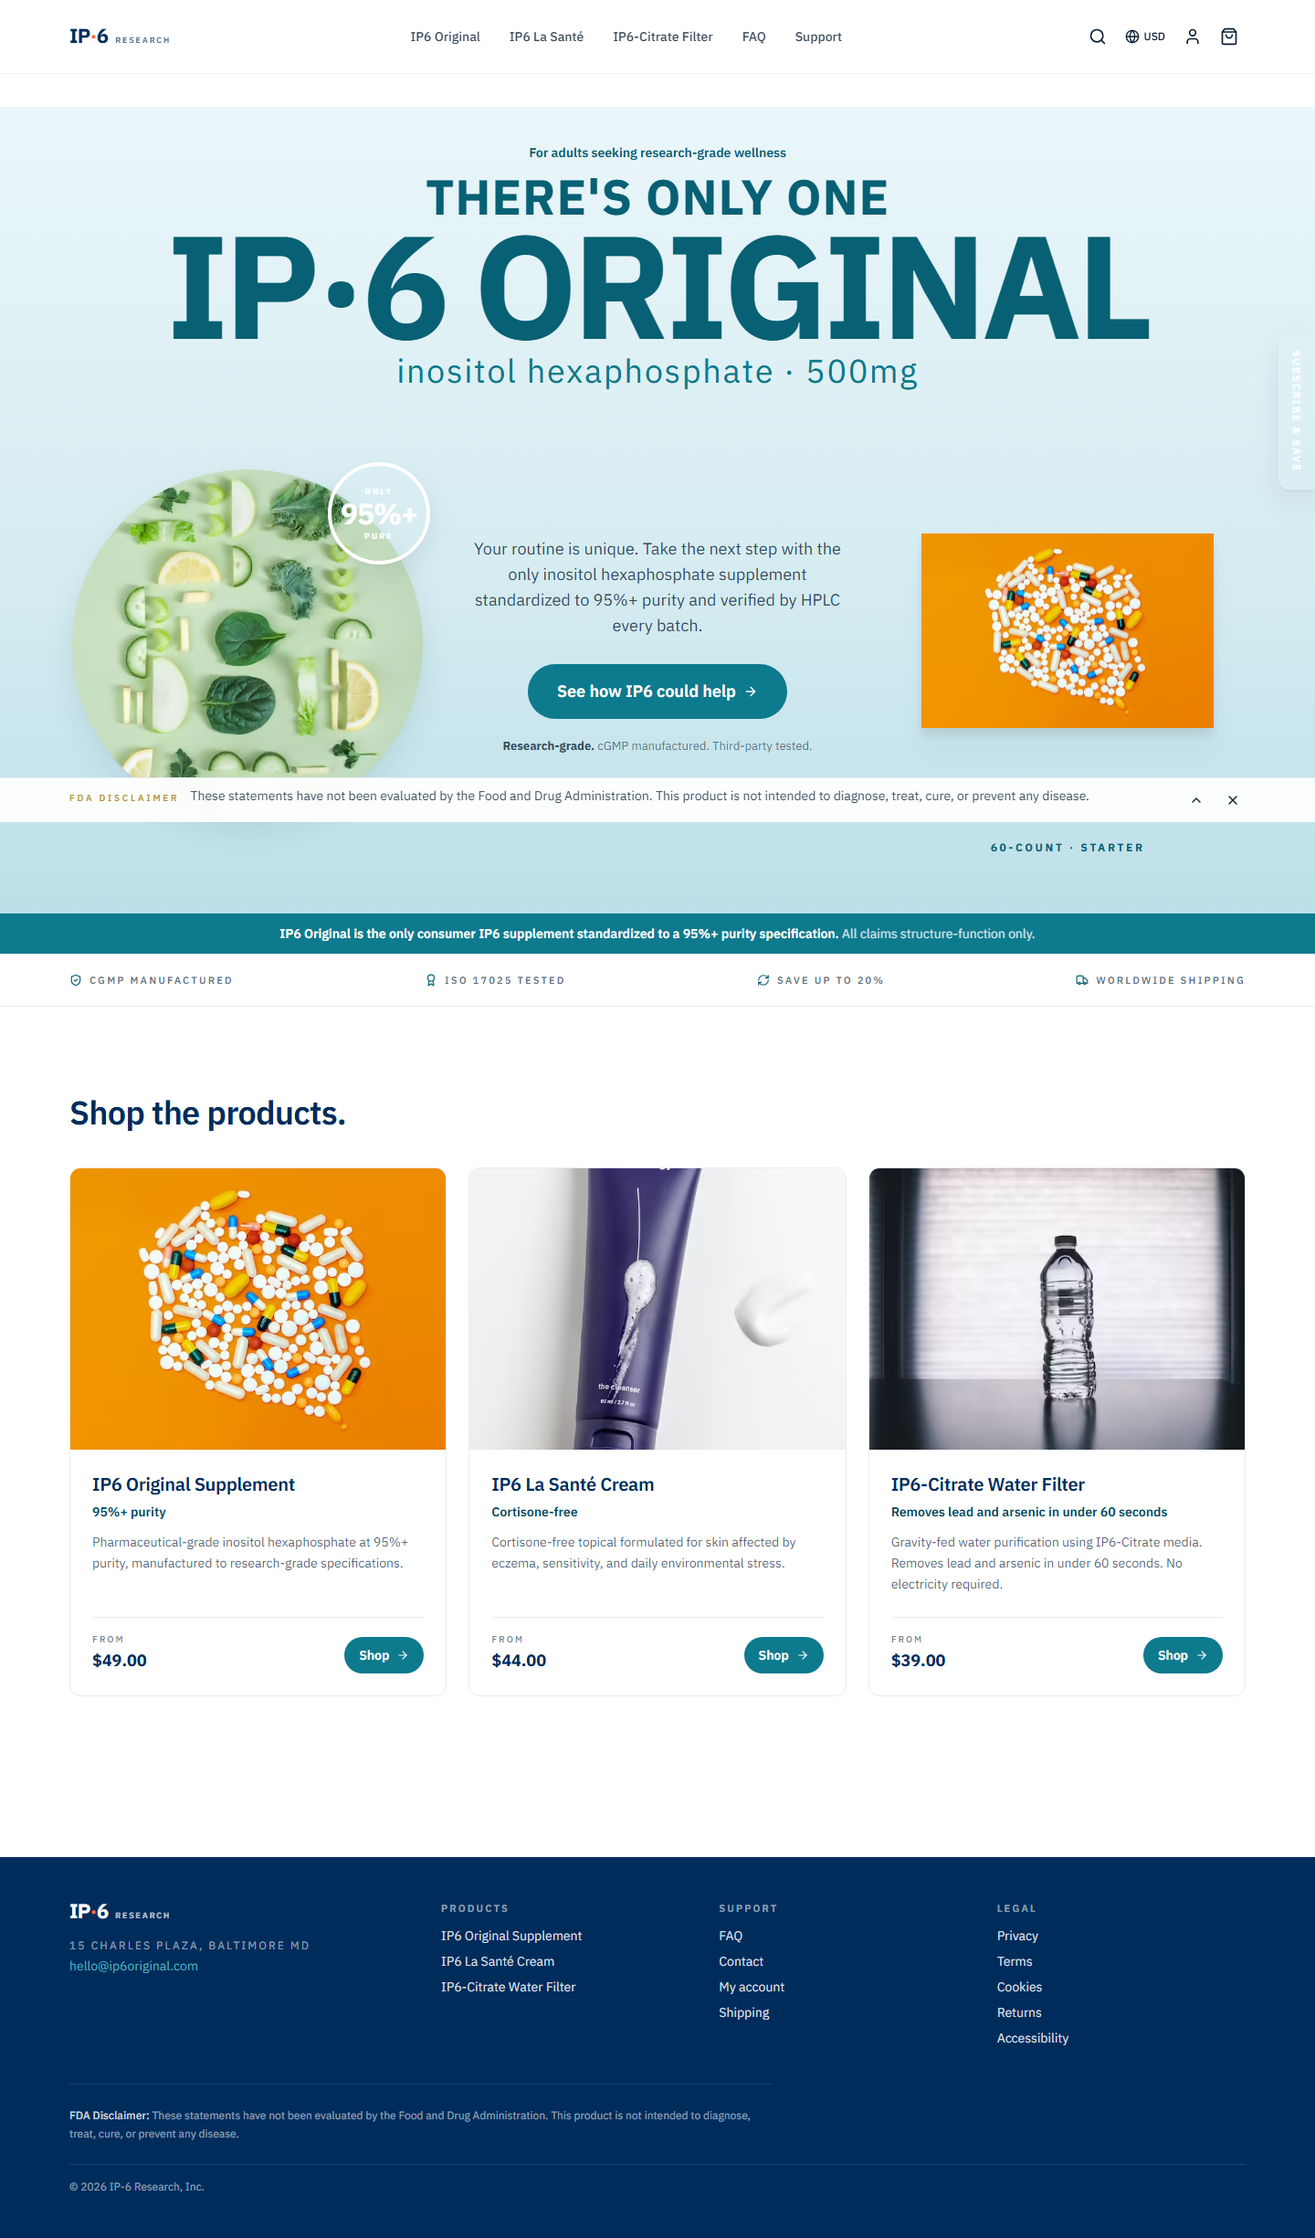
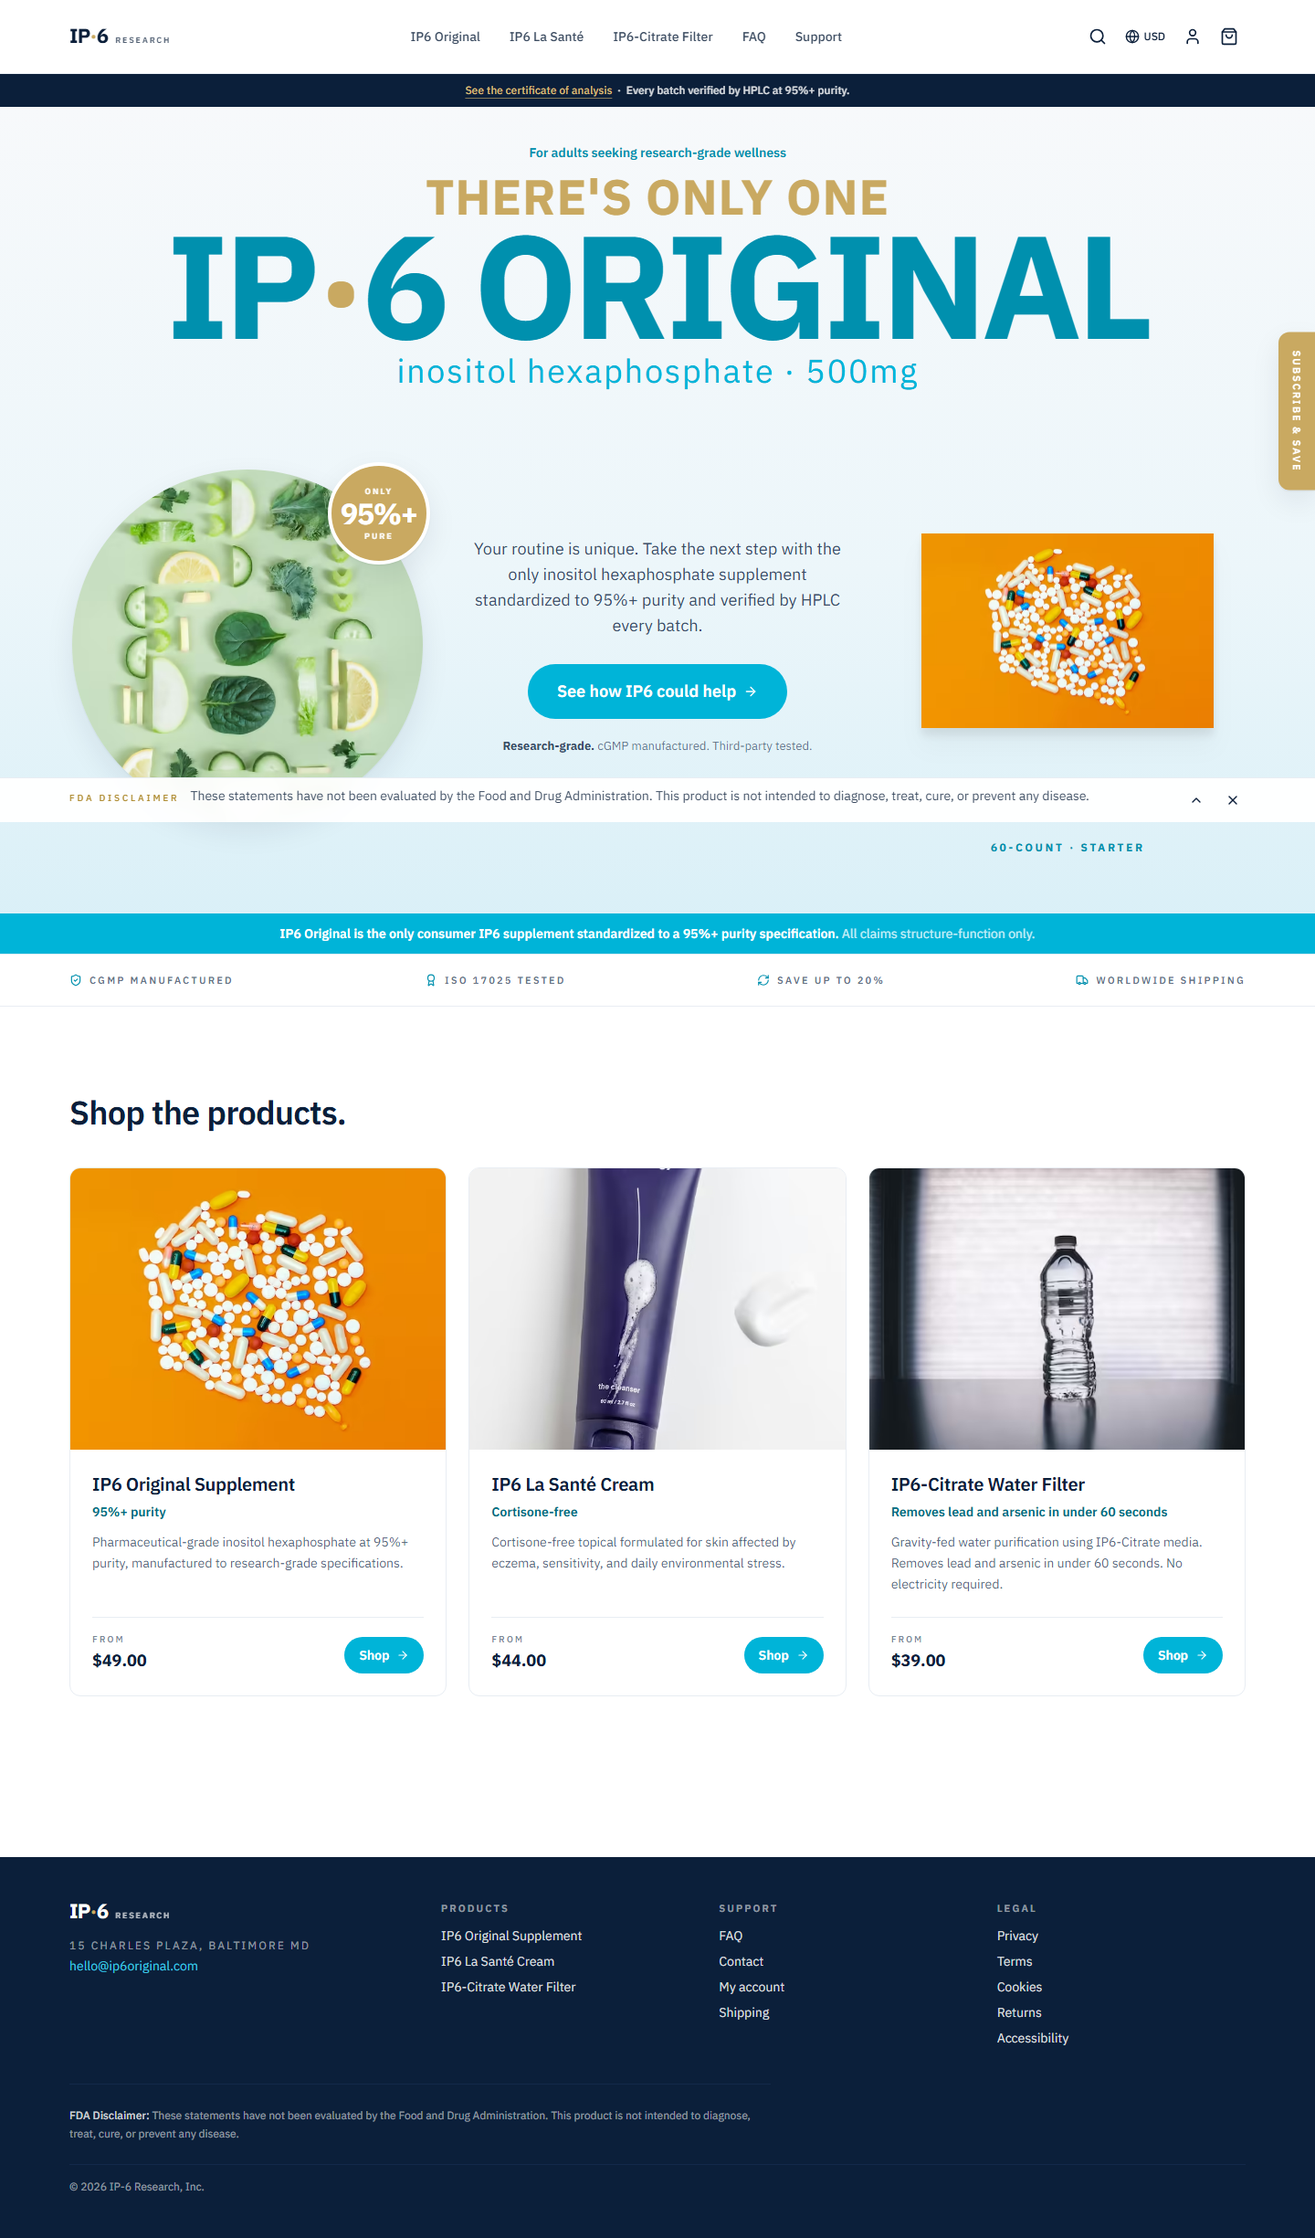
Brand palette + real supplement bottle + founder portrait fix
Palette switched site-wide to the brand colors:
  Deep Navy        #0B1F3A   (navy.800, ink, primary copy)
  Gold             #C9A961   (gold/coral/brandRed aliases — accents)
  Scientific Cyan  #00B4D8   (sky/teal — CTA, hero accents)
  Soft White       #F7F9FB   (cloud — backgrounds)

  - tailwind.config.ts: navy/gold/sky/teal/cloud all retuned;
    forest/coral/brandRed legacy tokens aliased to the new palette
    so existing className references keep working.
  - app/globals.css: bg-atmosphere gradient hex values updated to
    soft-white → cyan tint; buttons now teal (cyan) primary, with
    the legacy gold/coral className still resolving via alias.
  - app/layout.tsx: viewport themeColor set to deep navy.
  - app/checkout/CheckoutFlow.tsx: Stripe Elements appearance
    colors retuned (was forest green); fontFamily switched to
    IBM Plex Sans to match the rest of the site.
  - app/page.tsx: announcement strip background swapped to navy
    with gold link; hero gradient updated to soft-white/cyan tint;
    inline brandRed/coral styles already alias-resolved.
  - lib/aws/ses.ts: email templates re-skinned (navy text, gold
    accent rule, soft-white background).

Real product photo on the supplement page
  - public/products/supplement-real.png: client-supplied bottle
    photograph (652×1356, navy + gold label, "IP6 ORIGINAL · Pioneer
    in IP6 Research and Cellular Health · Dr. Shamsuddin").
  - content/products.ts: HERO_SUPPLEMENT now points to that local
[…]

diff --git a/tailwind.config.ts b/tailwind.config.ts
@@ -14,109 +14,111 @@ const config: Config = {
     },
     extend: {
       colors: {
-        // Clinical pharmaceutical palette
+        // Brand palette: Deep Navy / Gold / Scientific Cyan / Soft White
         navy: {
-          DEFAULT: "#002C5C",
-          50: "#EBF1F8",
-          100: "#D2DEEC",
-          200: "#A6BDD9",
-          300: "#7A9CC6",
-          400: "#4D7BB3",
-          500: "#1F5B9F",
-          600: "#0E4682",
-          700: "#063968",
-          800: "#002C5C",
-          900: "#001E40",
+          DEFAULT: "#0B1F3A",
+          50: "#EAEEF4",
+          100: "#CCD3DF",
+          200: "#9AA8BF",
+          300: "#677D9F",
+          400: "#3A547F",
+          500: "#1B375F",
+          600: "#13294A",
+          700: "#0E2440",
+          800: "#0B1F3A",
+          900: "#06122A",
+        },
+        gold: {
+          DEFAULT: "#C9A961",
+          50: "#FAF6EC",
+          100: "#F2E9CD",
+          200: "#E5D29C",
+          300: "#D9BD79",
+          400: "#D1B26C",
+          500: "#C9A961",
+          600: "#A98B43",
+          700: "#7C642F",
         },
         sky: {
-          DEFAULT: "#0E7A8E",
-          50: "#E6F4F7",
-          100: "#C4E5EB",
-          200: "#8ACAD5",
-          300: "#52B0BF",
-          400: "#2A95A7",
-          500: "#0E7A8E",
-          600: "#086074",
-          700: "#054A5C",
+          DEFAULT: "#00B4D8",
+          50: "#E5F8FC",
+          100: "#BFEDF6",
+          200: "#80D9EC",
+          300: "#40C7E2",
+          400: "#1ABCDB",
+          500: "#00B4D8",
+          600: "#0090AE",
+          700: "#006C82",
         },
         teal: {
-          DEFAULT: "#006072",
-          50: "#E6F2F4",
-          100: "#C4E0E5",
-          200: "#8AC2CB",
-          300: "#4FA3B0",
-          400: "#1A8699",
-          500: "#006072",
-          600: "#004D5C",
-          700: "#003A47",
+          DEFAULT: "#00B4D8",
+          50: "#E5F8FC",
+          100: "#BFEDF6",
+          200: "#80D9EC",
+          300: "#40C7E2",
+          400: "#1ABCDB",
+          500: "#00B4D8",
+          600: "#0090AE",
+          700: "#006C82",
         },
         brandRed: {
-          DEFAULT: "#DA0812",
-          50: "#FDECED",
-          100: "#F9CFD1",
-          200: "#F19DA1",
-          300: "#E86B72",
-          400: "#DF3942",
-          500: "#DA0812",
-          600: "#B0070E",
-          700: "#85050B",
+          // brand red role retired — alias to gold so existing className references
+          // map cleanly into the brand palette without needing component edits.
+          DEFAULT: "#C9A961",
+          50: "#FAF6EC",
+          100: "#F2E9CD",
+          200: "#E5D29C",
+          300: "#D9BD79",
+          400: "#D1B26C",
+          500: "#C9A961",
+          600: "#A98B43",
+          700: "#7C642F",
         },
         heroSky: {
-          from: "#EAF6FA",
-          mid: "#D5ECF1",
-          to: "#B9DEE7",
+          from: "#F7F9FB",
+          mid: "#E5F8FC",
+          to: "#BFEDF6",
         },
         coral: {
-          DEFAULT: "#FF6B47",
-          50: "#FFF1ED",
-          100: "#FFE0D6",
-          200: "#FFC0AC",
-          300: "#FFA083",
-          400: "#FF8059",
-          500: "#FF6B47",
-          600: "#E0552F",
-          700: "#B73F1F",
+          // alias to gold for legacy class refs
+          DEFAULT: "#C9A961",
+          50: "#FAF6EC",
+          100: "#F2E9CD",
+          200: "#E5D29C",
+          300: "#D9BD79",
+          400: "#D1B26C",
+          500: "#C9A961",
+          600: "#A98B43",
+          700: "#7C642F",
         },
-        ink: "#0A1F33",
+        ink: "#0B1F3A",
         surface: "#FFFFFF",
         cloud: {
-          DEFAULT: "#F5F7FA",
-          100: "#FBFCFD",
-          200: "#F5F7FA",
+          DEFAULT: "#F7F9FB",
+          100: "#FFFFFF",
+          200: "#F7F9FB",
           300: "#E8EDF3",
           400: "#D7DFE8",
         },
         danger: "#C0392B",
-        // Legacy aliases mapped to new palette so older components keep working
-        // until they're migrated.
+        // Legacy aliases mapped to current brand palette.
         forest: {
-          DEFAULT: "#002C5C",
-          50: "#EBF1F8",
-          100: "#D2DEEC",
-          200: "#A6BDD9",
-          300: "#7A9CC6",
-          400: "#4D7BB3",
-          500: "#1F5B9F",
-          600: "#0E4682",
-          700: "#063968",
-          800: "#002C5C",
-          900: "#001E40",
-        },
-        gold: {
-          DEFAULT: "#FF6B47",
-          50: "#FFF1ED",
-          100: "#FFE0D6",
-          200: "#FFC0AC",
-          300: "#FFA083",
-          400: "#FF8059",
-          500: "#FF6B47",
-          600: "#E0552F",
-          700: "#B73F1F",
+          DEFAULT: "#0B1F3A",
+          50: "#EAEEF4",
+          100: "#CCD3DF",
+          200: "#9AA8BF",
+          300: "#677D9F",
+          400: "#3A547F",
+          500: "#1B375F",
+          600: "#13294A",
+          700: "#0E2440",
+          800: "#0B1F3A",
+          900: "#06122A",
         },
         ivory: {
-          DEFAULT: "#F5F7FA",
-          100: "#FBFCFD",
-          200: "#F5F7FA",
+          DEFAULT: "#F7F9FB",
+          100: "#FFFFFF",
+          200: "#F7F9FB",
           300: "#E8EDF3",
         },
       },

diff --git a/components/product/ProductGallery.tsx b/components/product/ProductGallery.tsx
@@ -17,33 +17,55 @@ export function ProductGallery({ images }: { images: GalleryImage[] }) {
   const img = images[active];
   if (!img) return null;
 
+  // Container aspect ratio follows the active image so portrait bottles
+  // and landscape lifestyle shots both fit correctly. Portrait images
+  // get displayed with object-contain on a soft-white ground; landscape
+  // images can fill with object-cover.
+  const ratio = img.width / img.height;
+  const isPortrait = ratio < 1;
+  const containerAspect = isPortrait ? "aspect-[3/4]" : "aspect-[4/3]";
+
   return (
-    <div className="grid gap-4 lg:grid-cols-[72px_1fr] lg:gap-6">
+    <div className="grid gap-4 lg:grid-cols-[80px_1fr] lg:gap-6">
       <ol
         aria-label="Product image thumbnails"
         className="order-2 lg:order-1 flex lg:flex-col gap-2 overflow-x-auto lg:overflow-visible scrollbar-none"
       >
-        {images.map((im, i) => (
-          <li key={im.url + i}>
-            <button
-              onClick={() => setActive(i)}
-              aria-label={`Show image ${i + 1}`}
-              aria-current={i === active}
-              className={cn(
-                "relative block size-16 lg:size-[72px] rounded-md overflow-hidden border-2 transition-colors",
-                i === active ? "border-forest-700" : "border-transparent hover:border-ivory-300",
-              )}
-            >
-              <Image src={im.url} alt={im.alt} fill sizes="72px" className="object-cover" />
-            </button>
-          </li>
-        ))}
+        {images.map((im, i) => {
+          const thumbPortrait = im.width / im.height < 1;
+          return (
+            <li key={im.url + i}>
+              <button
+                onClick={() => setActive(i)}
+                aria-label={`Show image ${i + 1}`}
+                aria-current={i === active}
+                className={cn(
+                  "relative block size-20 rounded-md overflow-hidden border-2 transition-colors bg-cloud-200",
+                  i === active ? "border-navy-800" : "border-transparent hover:border-cloud-400",
+                )}
+              >
+                <Image
+                  src={im.url}
+                  alt={im.alt}
+                  fill
+                  sizes="80px"
+                  className={thumbPortrait ? "object-contain p-1.5" : "object-cover"}
+                />
+              </button>
+            </li>
+          );
+        })}
       </ol>
+
       <div className="order-1 lg:order-2">
         <button
           onClick={() => setZoomed((z) => !z)}
           aria-label={zoomed ? "Close zoom" : "Zoom image"}
-          className="group relative w-full aspect-[4/3] rounded-lg overflow-hidden bg-ivory-200 cursor-zoom-in"
+          className={cn(
+            "group relative w-full rounded-lg overflow-hidden cursor-zoom-in",
+            containerAspect,
+            isPortrait ? "bg-cloud-200" : "bg-cloud-200",
+          )}
         >
           <Image
             src={img.url}
@@ -52,7 +74,8 @@ export function ProductGallery({ images }: { images: GalleryImage[] }) {
             sizes="(min-width: 1024px) 640px, 100vw"
             priority={active === 0}
             className={cn(
-              "object-cover transition-transform duration-500 ease-brand",
+              "transition-transform duration-500 ease-brand",
+              isPortrait ? "object-contain p-6" : "object-cover",
               zoomed ? "scale-150" : "group-hover:scale-105",
             )}
           />

diff --git a/app/page.tsx b/app/page.tsx
@@ -18,18 +18,18 @@ export default function HomePage() {
           on top, MASSIVE typographic brand statement stacked over it,
           red circular callout, teal+red color pair, subscribe-side tab. */}
 
-      {/* Red news/announcement band — pharma-style alert strip */}
-      <div className="bg-brandRed-500 text-surface text-center text-xs py-2.5 font-medium">
-        <Link href="/why-ip6/comparison" className="underline underline-offset-4 decoration-surface/60 hover:decoration-surface">
-          Click here
+      {/* Announcement strip — navy ground, gold link */}
+      <div className="bg-navy-800 text-surface text-center text-xs py-2.5 font-medium">
+        <Link href="/faq" className="text-gold-300 hover:text-gold-200 underline underline-offset-4 decoration-gold-400/60 hover:decoration-gold-300">
+          See the certificate of analysis
         </Link>
-        <span className="opacity-90"> for information about commodity-grade IP6 supplements on the market.</span>
+        <span className="opacity-85"> &nbsp;·&nbsp; Every batch verified by HPLC at 95%+ purity.</span>
       </div>
 
       <section
         className="relative overflow-hidden"
         style={{
-          background: "linear-gradient(180deg, #EAF6FA 0%, #D5ECF1 55%, #B9DEE7 100%)",
+          background: "linear-gradient(180deg, #F7F9FB 0%, #ECF6FA 55%, #D8EFF7 100%)",
         }}
       >
         {/* Sticky side "Savings & Support" tab on right edge */}

diff --git a/content/products.ts b/content/products.ts
@@ -1,7 +1,8 @@
 import type { Product } from "@/types";
 import { asset } from "@/lib/assets";
 
-const HERO_SUPPLEMENT = asset("products/supplement-1.jpg");
+// Real product photo, served from /public/products/ locally (not yet on S3).
+const HERO_SUPPLEMENT = "/products/supplement-real.png";
 const HERO_CREAM = asset("products/cream-1.jpg");
 const HERO_FILTER = asset("products/filter-1.jpg");
 
@@ -88,9 +89,7 @@ export const products: Product[] = [
       { days: 90, discountPct: 20 },
     ],
     images: [
-      { url: HERO_SUPPLEMENT, alt: "IP6 Original Supplement bottle on a neutral studio backdrop.", width: 1600, height: 1200 },
-      { url: DETAIL_SUPPLEMENT_2, alt: "IP6 capsules arranged beside the amber glass bottle.", width: 1600, height: 1200 },
-      { url: DETAIL_SUPPLEMENT_3, alt: "Close-up of IP6 powder texture in a glass dish.", width: 1600, height: 1200 },
+      { url: HERO_SUPPLEMENT, alt: "IP6 Original Supplement — navy bottle with gold accents reading 'IP6 ORIGINAL · Pioneer in IP6 Research and Cellular Health · Dr. Shamsuddin'.", width: 652, height: 1356 },
     ],
     faq: [
       {

diff --git a/app/shop/[slug]/_sections/SupplementSections.tsx b/app/shop/[slug]/_sections/SupplementSections.tsx
@@ -7,14 +7,14 @@ export function SupplementSections() {
     <>
       {/* Founder endorsement, compliant structure-function language only */}
       <section className="bg-ivory-200 py-20">
-        <div className="container max-w-4xl grid lg:grid-cols-[1fr_1.4fr] gap-10 items-center">
-          <div className="relative aspect-square rounded-full overflow-hidden mx-auto w-48 lg:w-full">
+        <div className="container max-w-5xl grid lg:grid-cols-[1fr_1.4fr] gap-10 items-center">
+          <div className="relative aspect-[3/4] rounded-xl overflow-hidden bg-cloud-200 max-w-xs lg:max-w-none mx-auto w-full">
             <Image
               src={asset("founder/shamsuddin.png")}
               alt="Portrait of Dr. AbulKalam M. Shamsuddin, founder of IP-6 Research."
               fill
-              sizes="(min-width:1024px) 360px, 192px"
-              className="object-cover object-top"
+              sizes="(min-width:1024px) 420px, 320px"
+              className="object-cover"
             />
           </div>
           <div>

diff --git a/lib/aws/ses.ts b/lib/aws/ses.ts
@@ -94,12 +94,12 @@ export const emailTemplates = {
 
 function baseEmail(body: string) {
   return `<!doctype html><html><head><meta charset="utf-8"><title>IP-6 Research</title></head>
-<body style="font-family:system-ui,Arial,sans-serif;color:#1A1A1A;max-width:560px;margin:0 auto;padding:24px;">
-  <div style="border-bottom:2px solid #1B4332;padding-bottom:12px;margin-bottom:24px;">
-    <strong style="color:#1B4332;font-size:20px;">IP-6 Research, Inc.</strong>
+<body style="font-family:system-ui,Arial,sans-serif;color:#0B1F3A;max-width:560px;margin:0 auto;padding:24px;background:#F7F9FB;">
+  <div style="border-bottom:2px solid #C9A961;padding-bottom:12px;margin-bottom:24px;">
+    <strong style="color:#0B1F3A;font-size:20px;">IP-6 Research, Inc.</strong>
   </div>
   ${body}
-  <hr style="margin:32px 0;border:none;border-top:1px solid #EFE8DB;">
+  <hr style="margin:32px 0;border:none;border-top:1px solid #E8EDF3;">
   <p style="font-size:12px;color:#666;">IP-6 Research, Inc. · ip6original.com</p>
 </body></html>`;
 }

diff --git a/app/checkout/CheckoutFlow.tsx b/app/checkout/CheckoutFlow.tsx
@@ -105,9 +105,9 @@ export function CheckoutFlow() {
                   appearance: {
                     theme: "stripe",
                     variables: {
-                      colorPrimary: "#1B4332",
-                      colorText: "#1A1A1A",
-                      fontFamily: "Inter, system-ui, sans-serif",
+                      colorPrimary: "#0B1F3A",
+                      colorText: "#0B1F3A",
+                      fontFamily: "IBM Plex Sans, system-ui, sans-serif",
                       borderRadius: "6px",
                     },
                   },

diff --git a/app/globals.css b/app/globals.css
@@ -144,12 +144,12 @@
     }
   }
 
-  /* Light, near-white surfaces with subtle blue tint. */
+  /* Soft White surfaces with subtle Scientific Cyan tint. */
   .bg-atmosphere {
-    background: linear-gradient(180deg, #FBFCFD 0%, #F5F7FA 100%);
+    background: linear-gradient(180deg, #FFFFFF 0%, #F7F9FB 100%);
   }
   .bg-atmosphere-deep {
-    background: linear-gradient(180deg, #FBFCFD 0%, #EBF1F8 100%);
+    background: linear-gradient(180deg, #F7F9FB 0%, #E5F8FC 100%);
   }
 
   .text-hero {

diff --git a/app/layout.tsx b/app/layout.tsx
@@ -39,7 +39,7 @@ export const metadata: Metadata = {
 };
 
 export const viewport: Viewport = {
-  themeColor: "#002C5C",
+  themeColor: "#0B1F3A",
   width: "device-width",
   initialScale: 1,
 };
